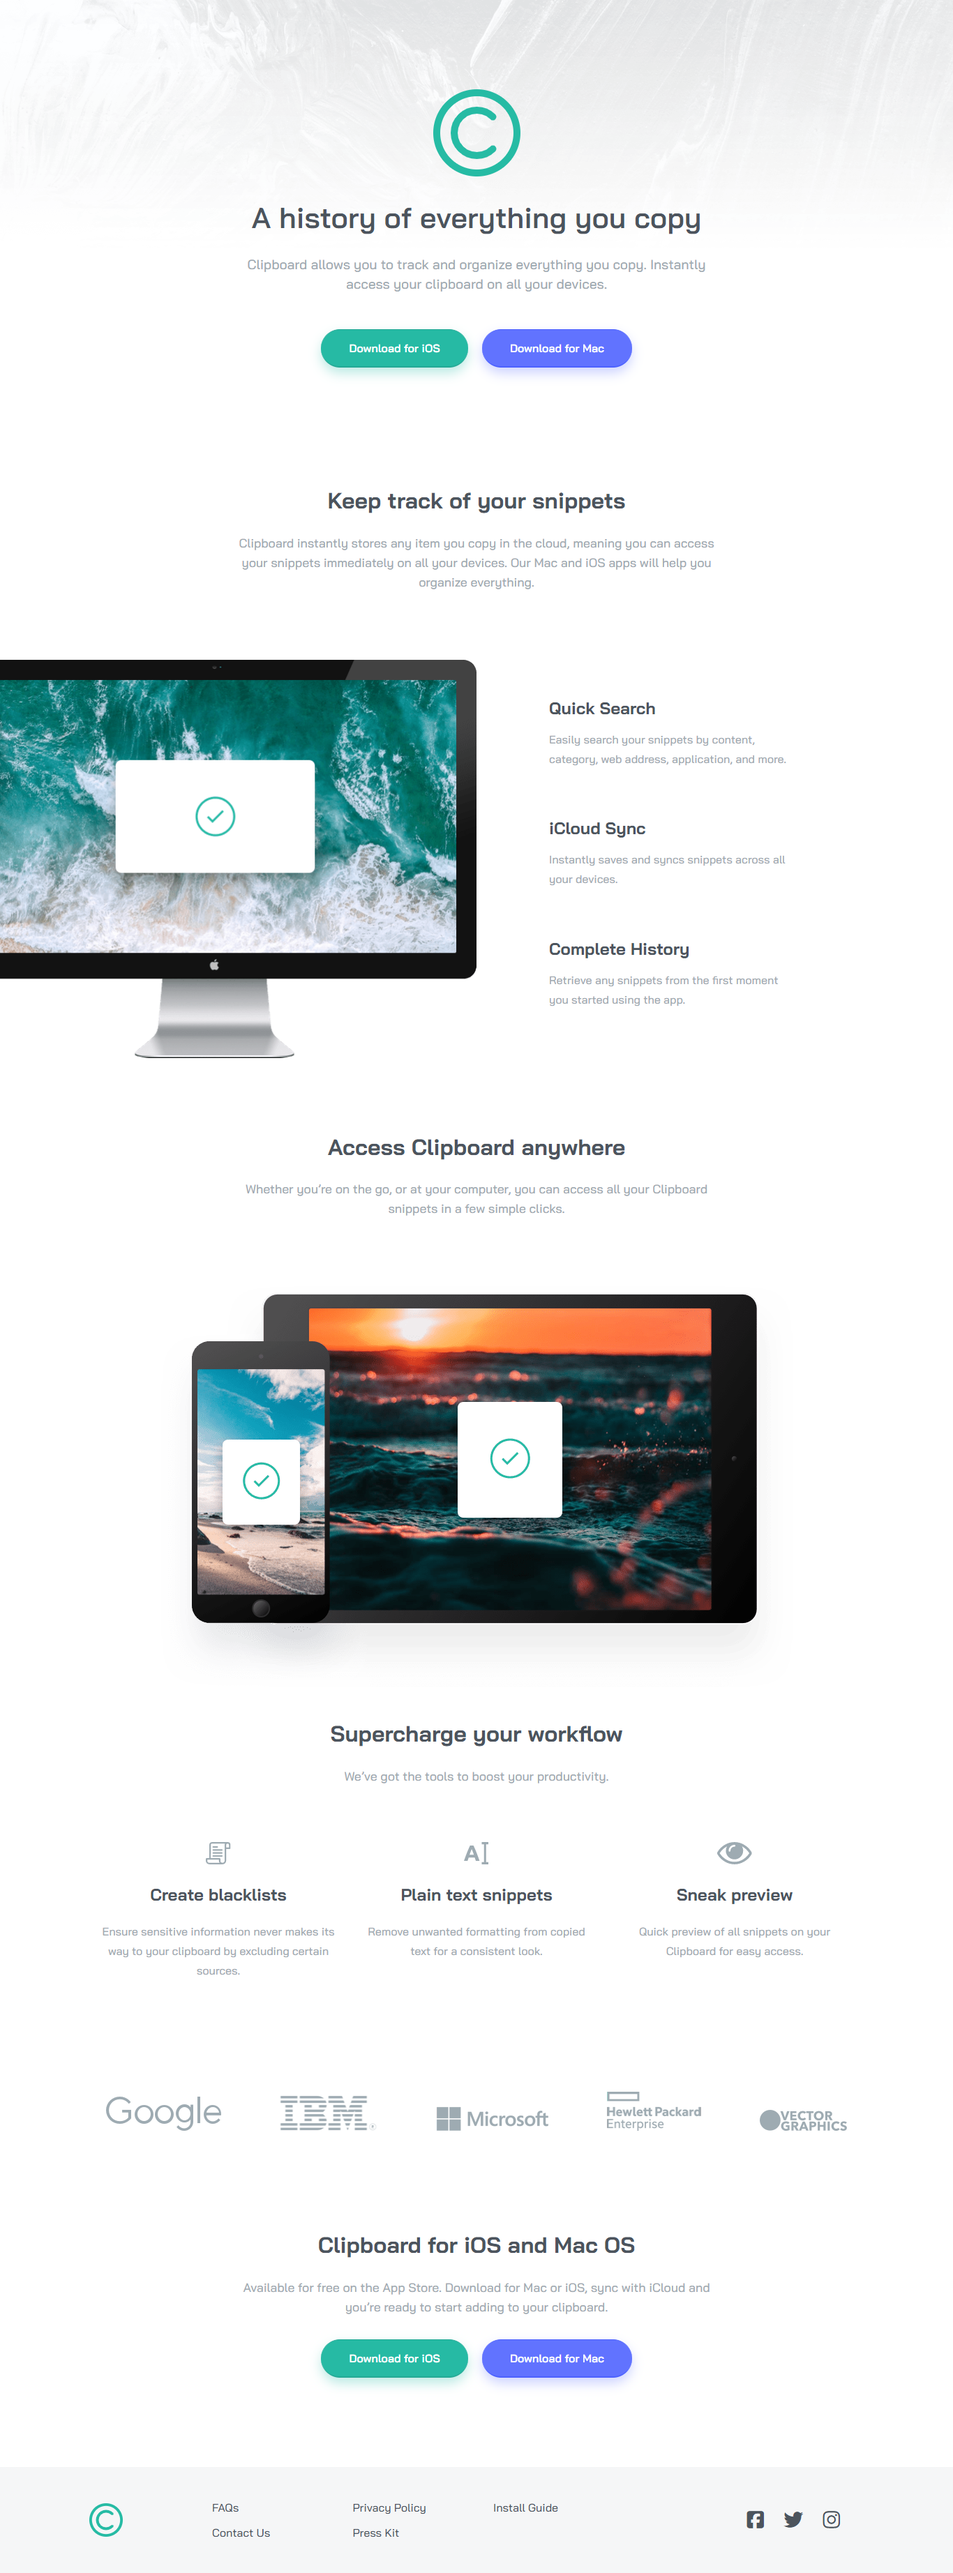
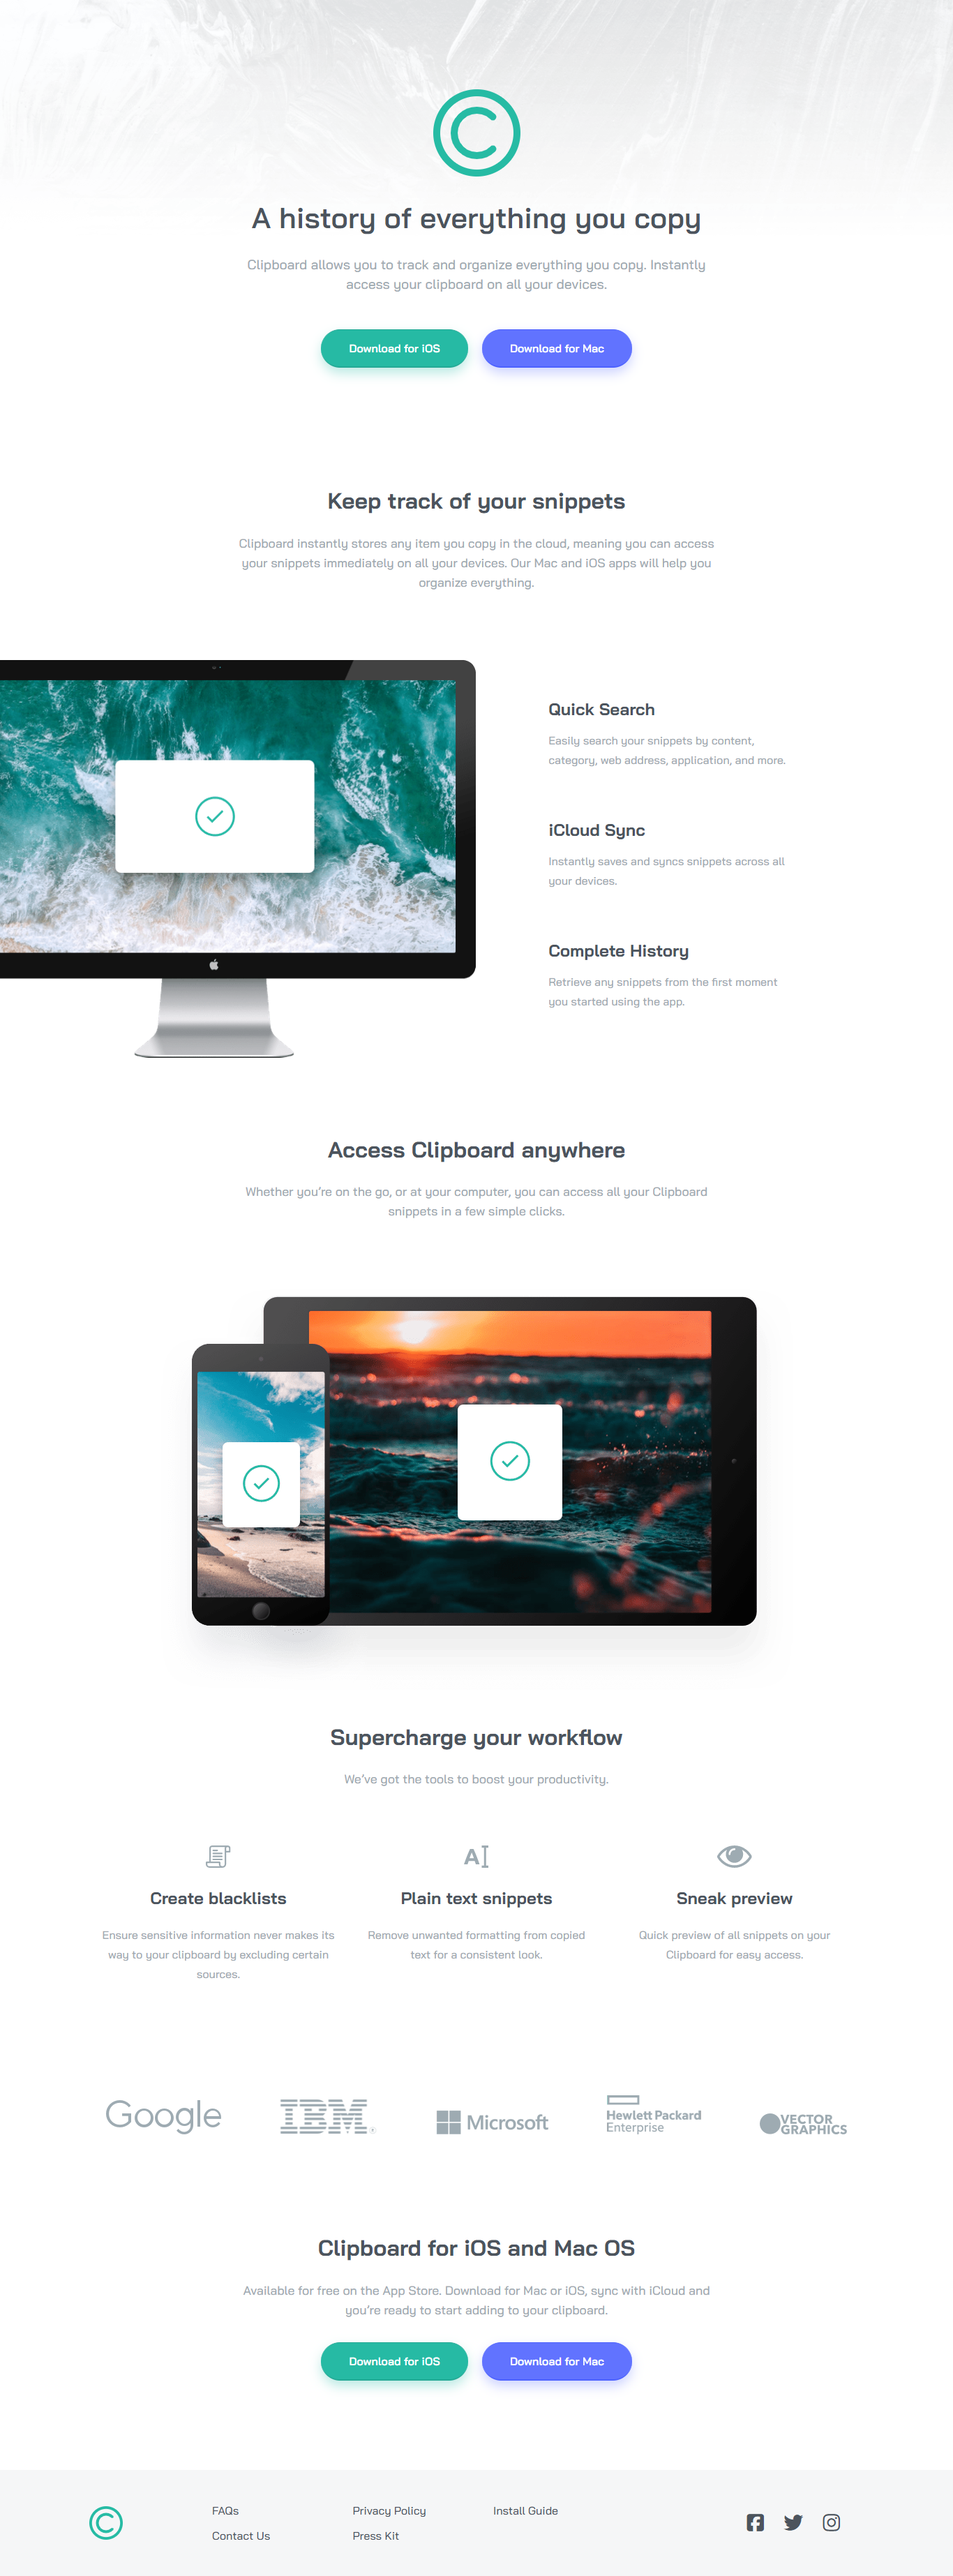
fix image position

diff --git a/styles/styles.css b/styles/styles.css
@@ -56,21 +56,24 @@
       display: table;
       clear: both;
     }
-
-    .computer {
-      width: 55%;
-      object-fit: scale-down;
-      display: inline-block;
-      margin-left: -5%;
-    }
-    
+        
     .features-section {
       display: flex;
       padding: 4rem 0;
     }
 
+    .computer-section {
+      max-width: 50%;
+    }
+
+    .computer {
+      max-width: 110%;
+      object-fit: scale-down;
+      margin-left: -10%;
+    }
+
     .features {
-      width: 45%;
+      max-width: 50%;
       display: flex;
       flex-direction: column;
       justify-content: space-evenly;

diff --git a/index.html b/index.html
@@ -29,7 +29,9 @@
       <p class="desc">Clipboard instantly stores any item you copy in the cloud, meaning you can access your snippets immediately on all your devices. Our Mac and iOS apps will help you organize everything.</p>
     </div>
     <div class="features-section">
-      <img class="computer" src="./images/image-computer.png" alt="computer">
+      <div class="computer-section">
+        <img class="computer" src="./images/image-computer.png" alt="computer">
+      </div>
       <div class="features">
         <div class="features-individual">
           <h3>Quick Search</h3>
